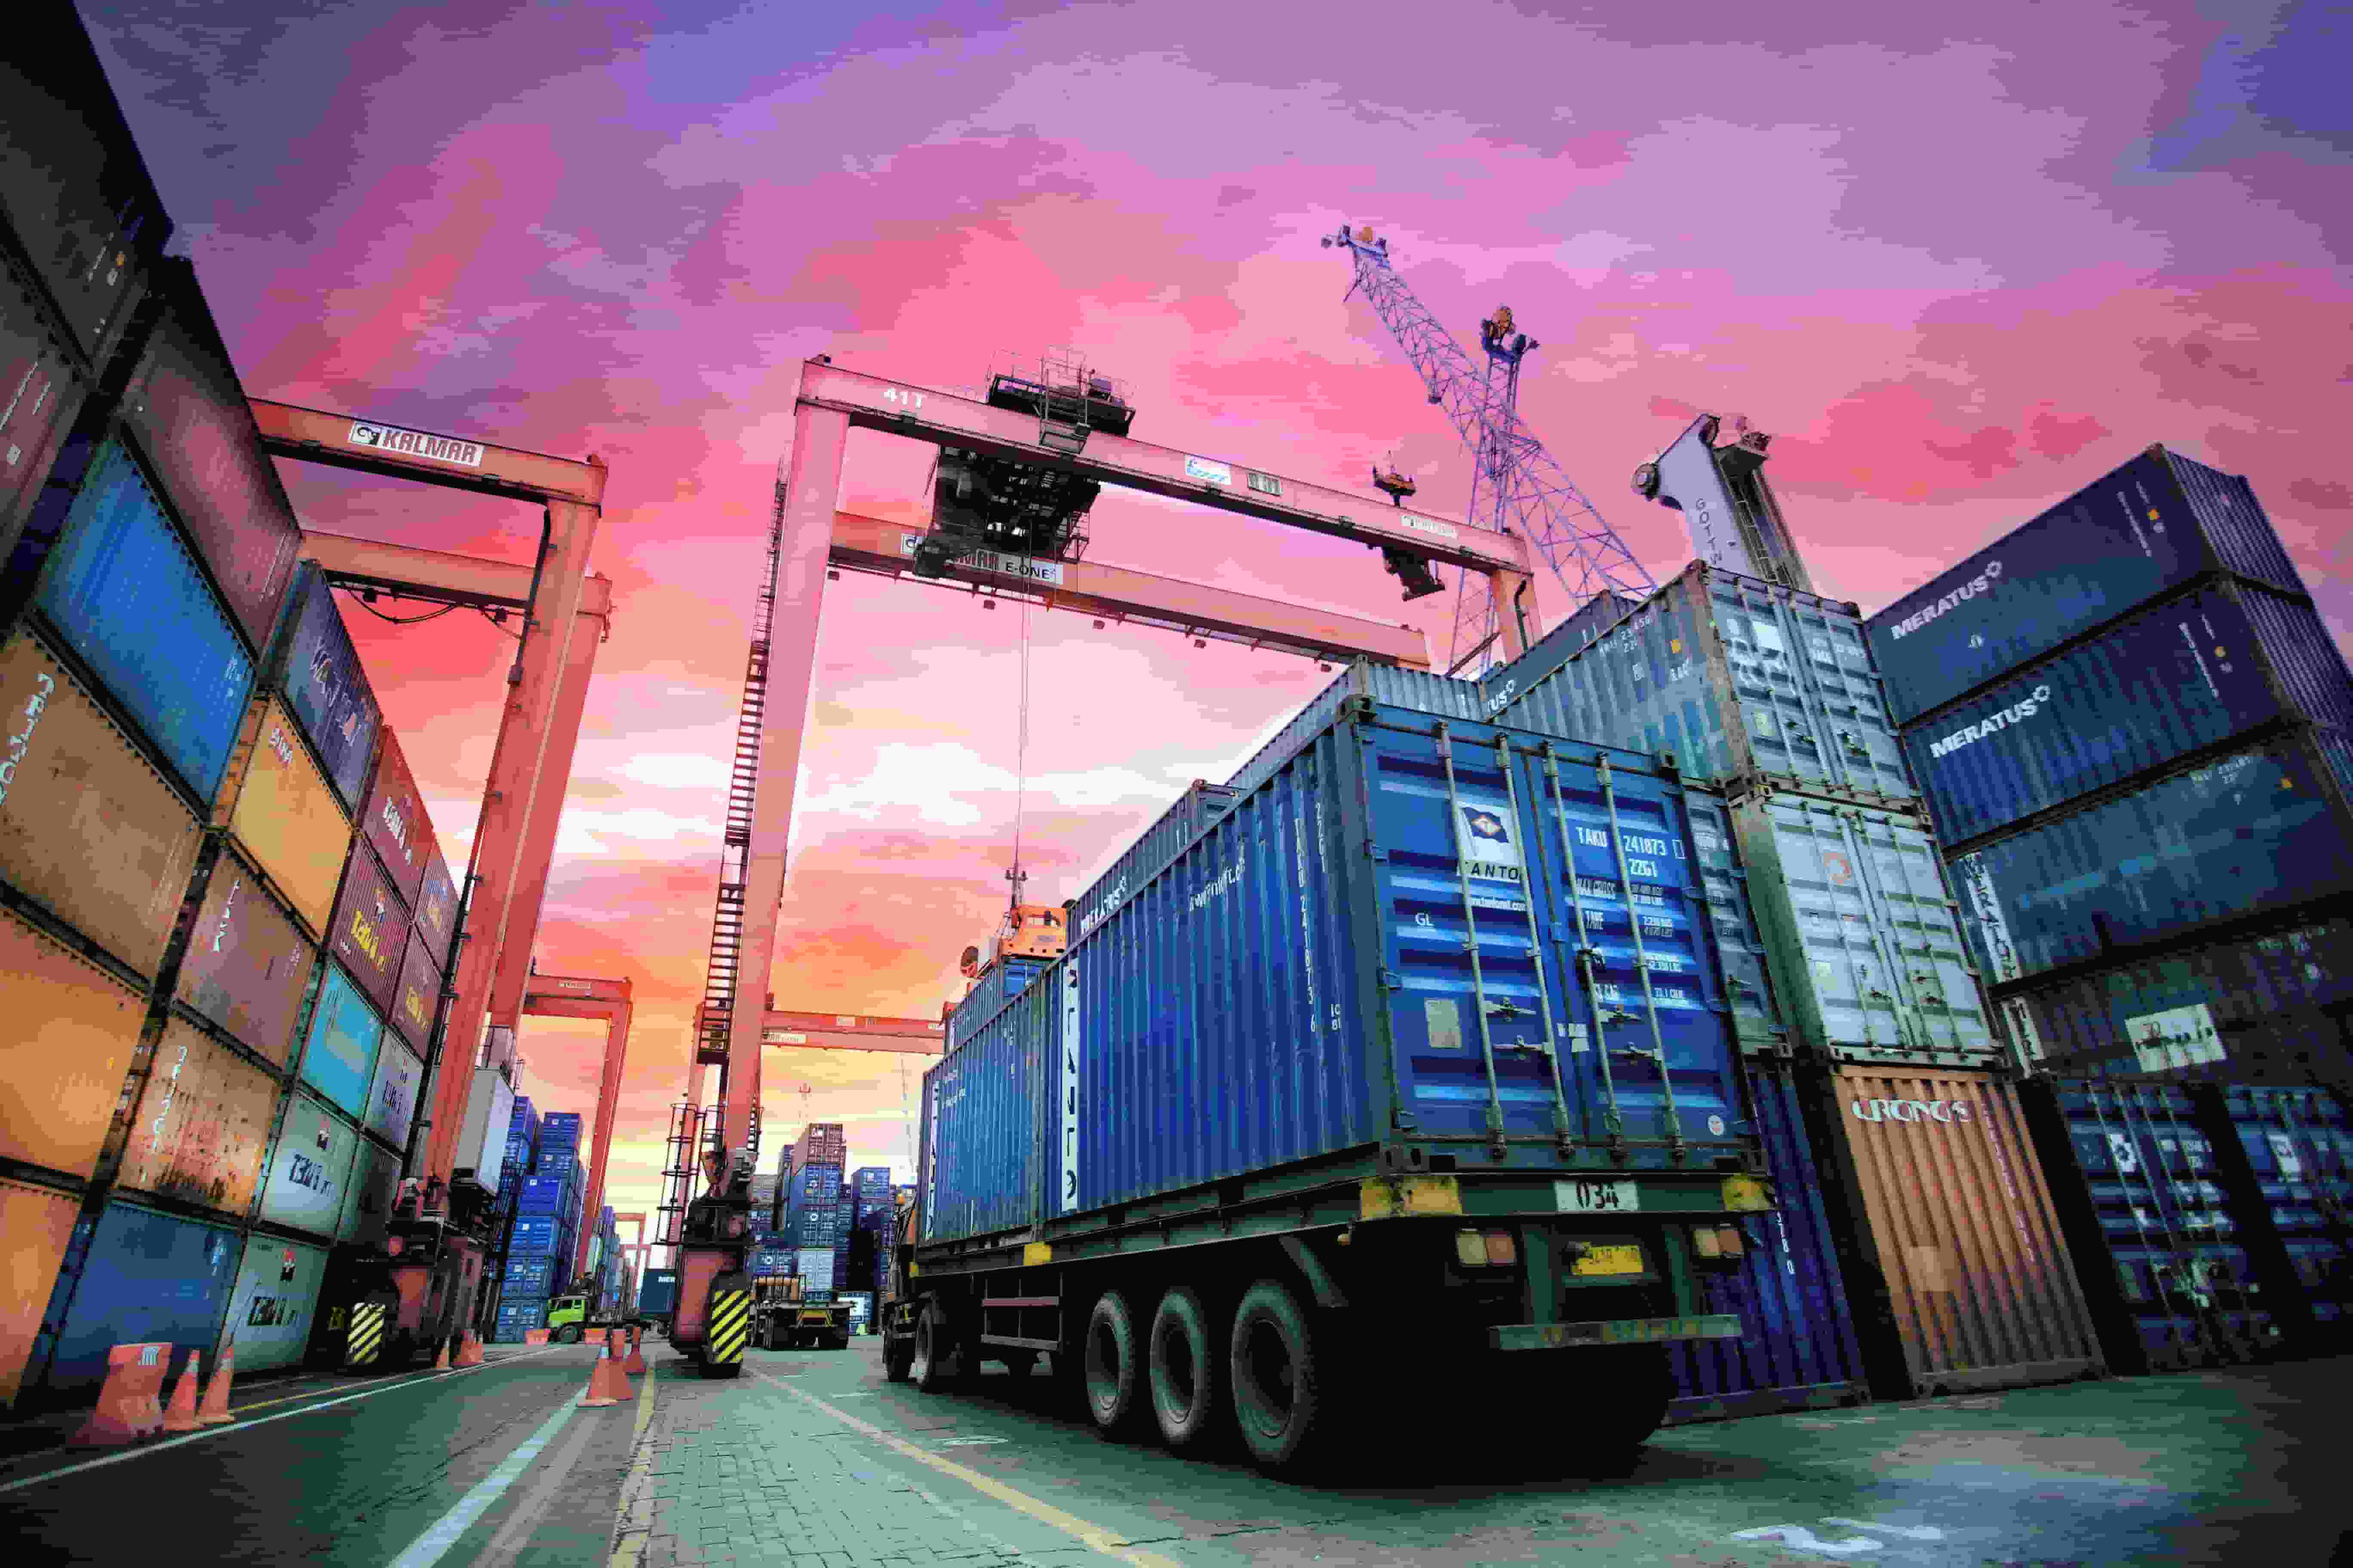
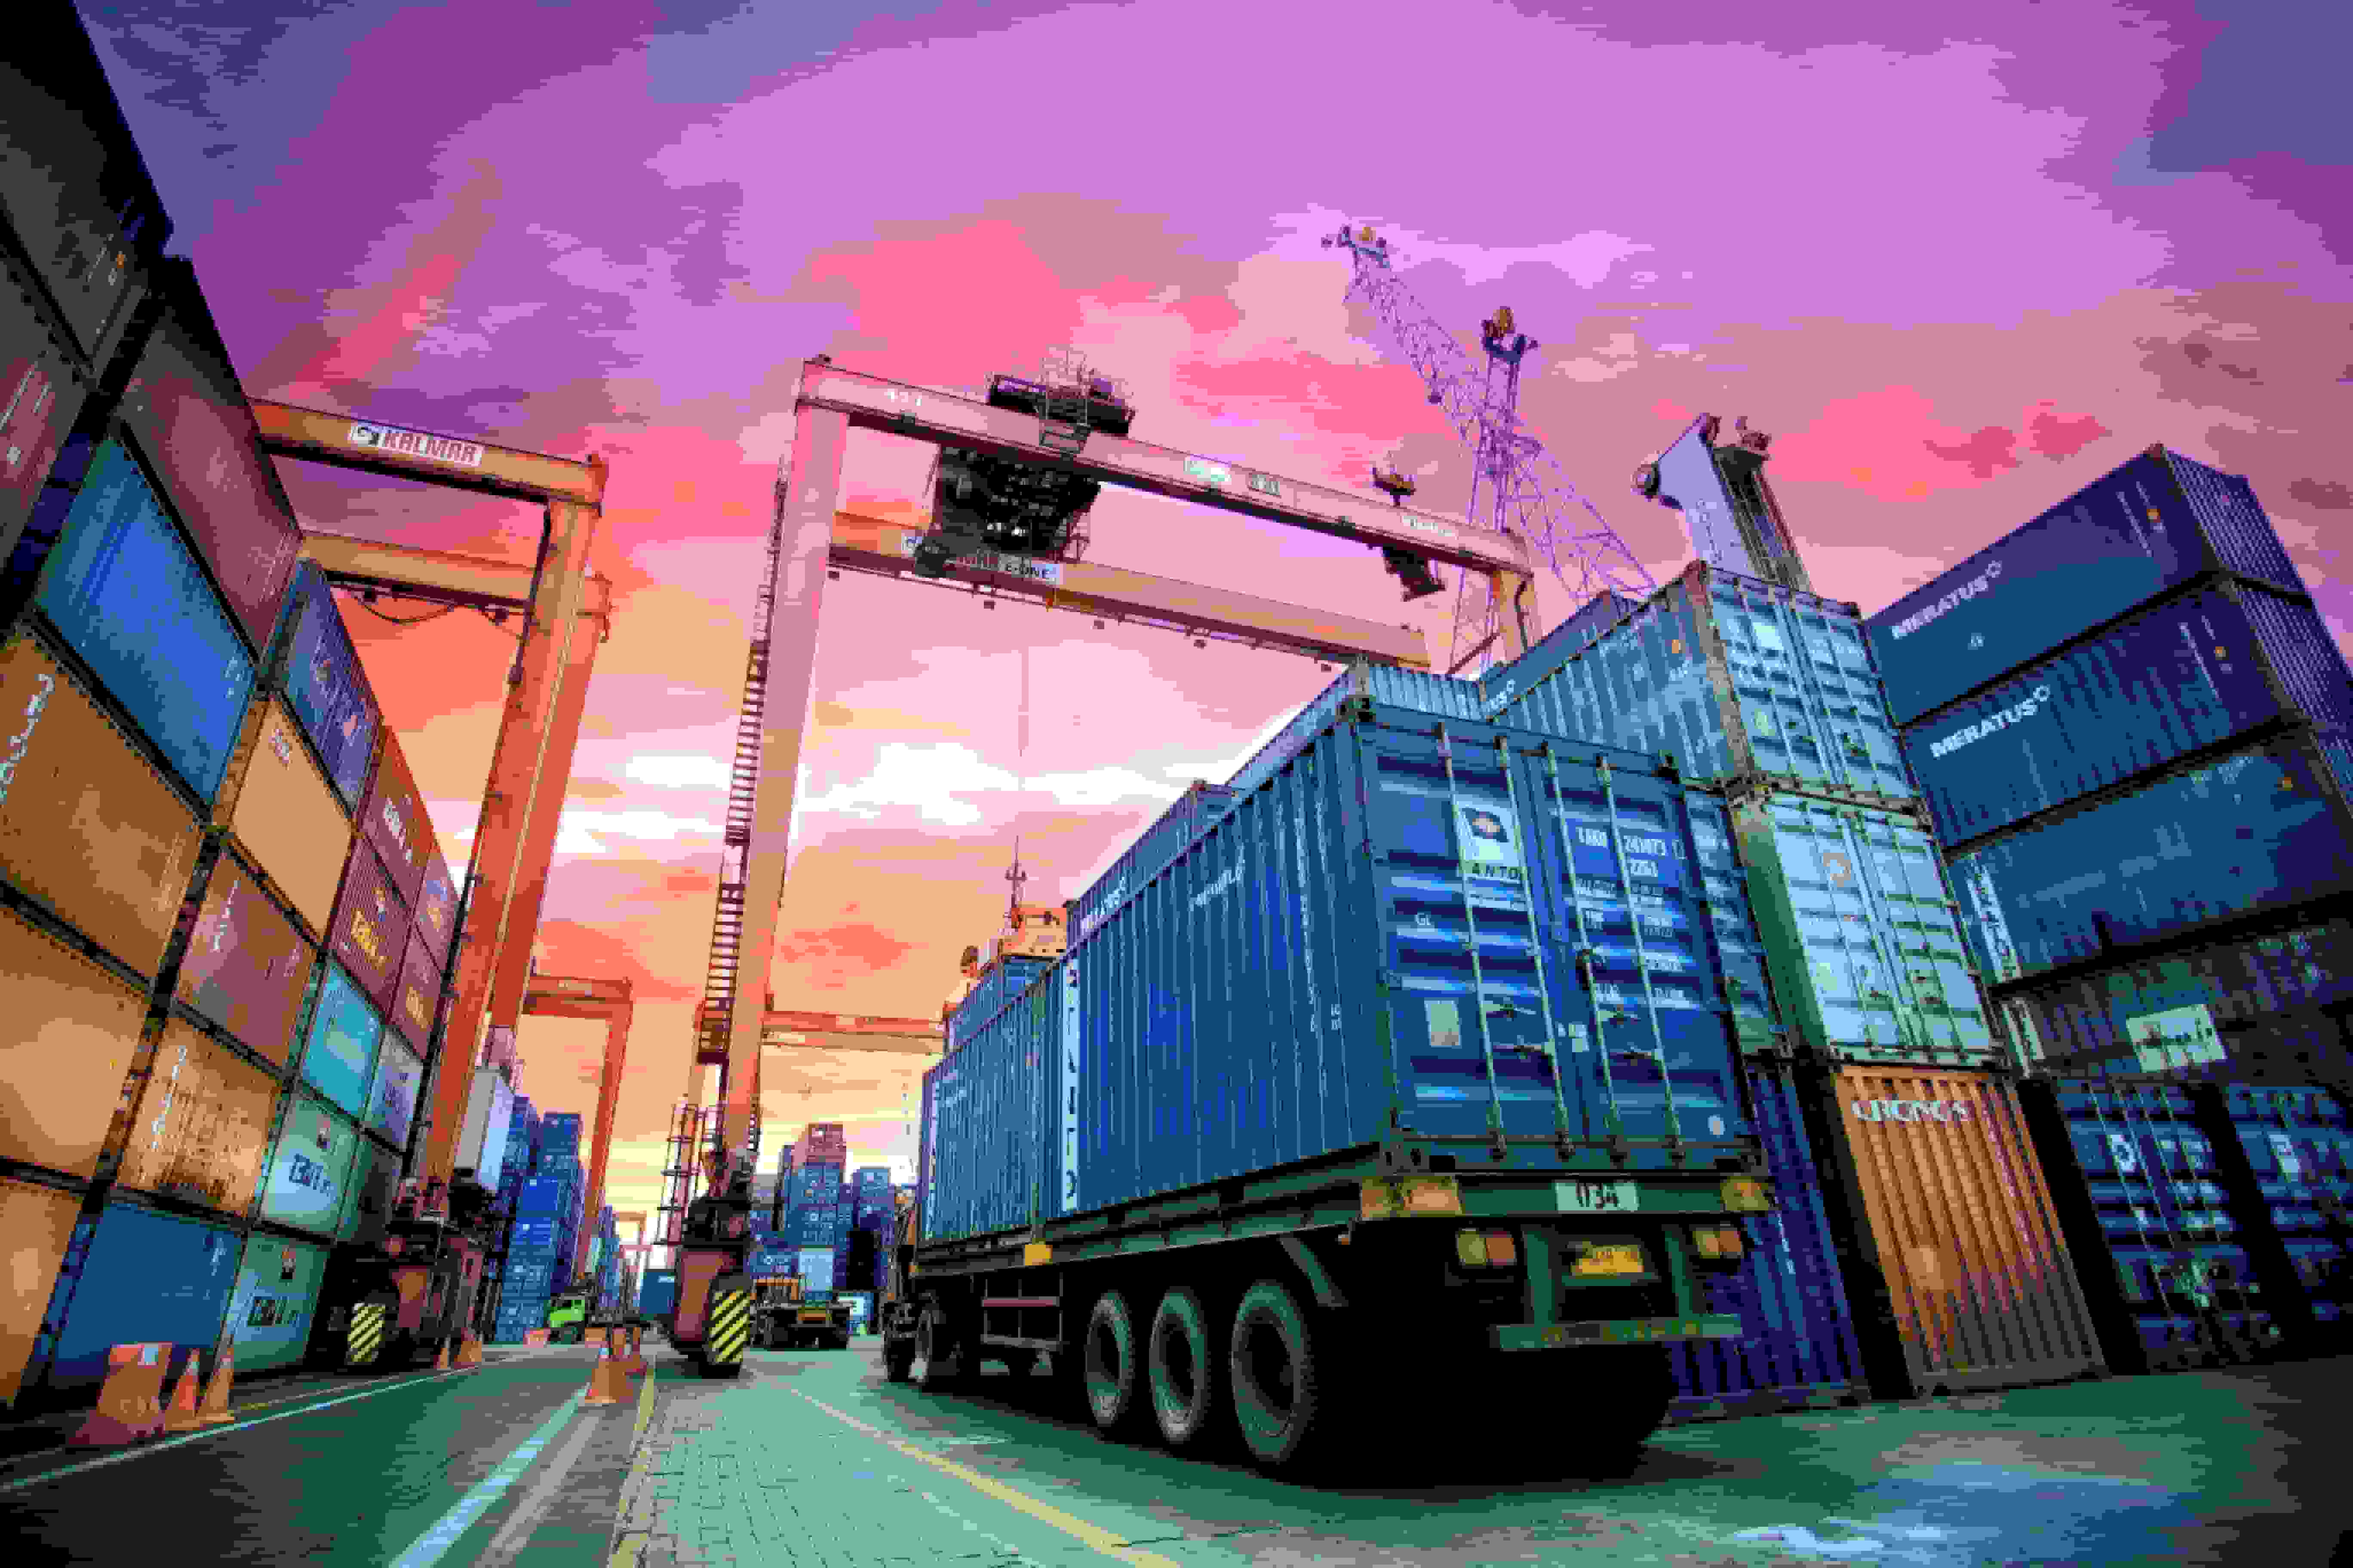
optimization

diff --git a/chamber/directory.html b/chamber/directory.html
@@ -4,7 +4,7 @@
     <meta charset="UTF-8">
     <meta name="viewport" content="width=device-width, initial-scale=1.0">
 
-    <meta name="description" content="Explore the Port Harcourt Chamber of Commerce business directory. Discover local businesses, services, and opportunities across Port Harcourt, Rivers State, Nigeria.">
+    <meta name="description" content="Explore the Port Harcourt Chamber of Commerce business directory. Discover local businesses, services, and opportunities across Rivers State, Nigeria.">
 
     <meta name="author" content="Boma Richards Ojugba">
 
@@ -16,7 +16,7 @@
     <!-- Open Graph / Facebook -->
     <meta property="og:title" content="Port Harcourt Chamber of Commerce | Business Directory">
     <meta property="og:description" content="Discover businesses, services, and commercial opportunities in Port Harcourt, Nigeria.">
-    <meta property="og:image" content="https://richardboma14-create.github.io/wdd231/chamber/images/og-image.jpg">
+    <meta property="og:image" content="https://richardboma14-create.github.io/wdd231/chamber/images/tech-hub.jpg">
     <meta property="og:url" content="https://richardboma14-create.github.io/wdd231/chamber/directory.html">
     <meta property="og:type" content="website">
 

diff --git a/chamber/styles/small.css b/chamber/styles/small.css
@@ -59,6 +59,10 @@ header {
     display: block;
 }
 
+.brand-name {
+    color: var(--white);
+}
+
 /* NAVIGATION */
 
 #menu-button {
